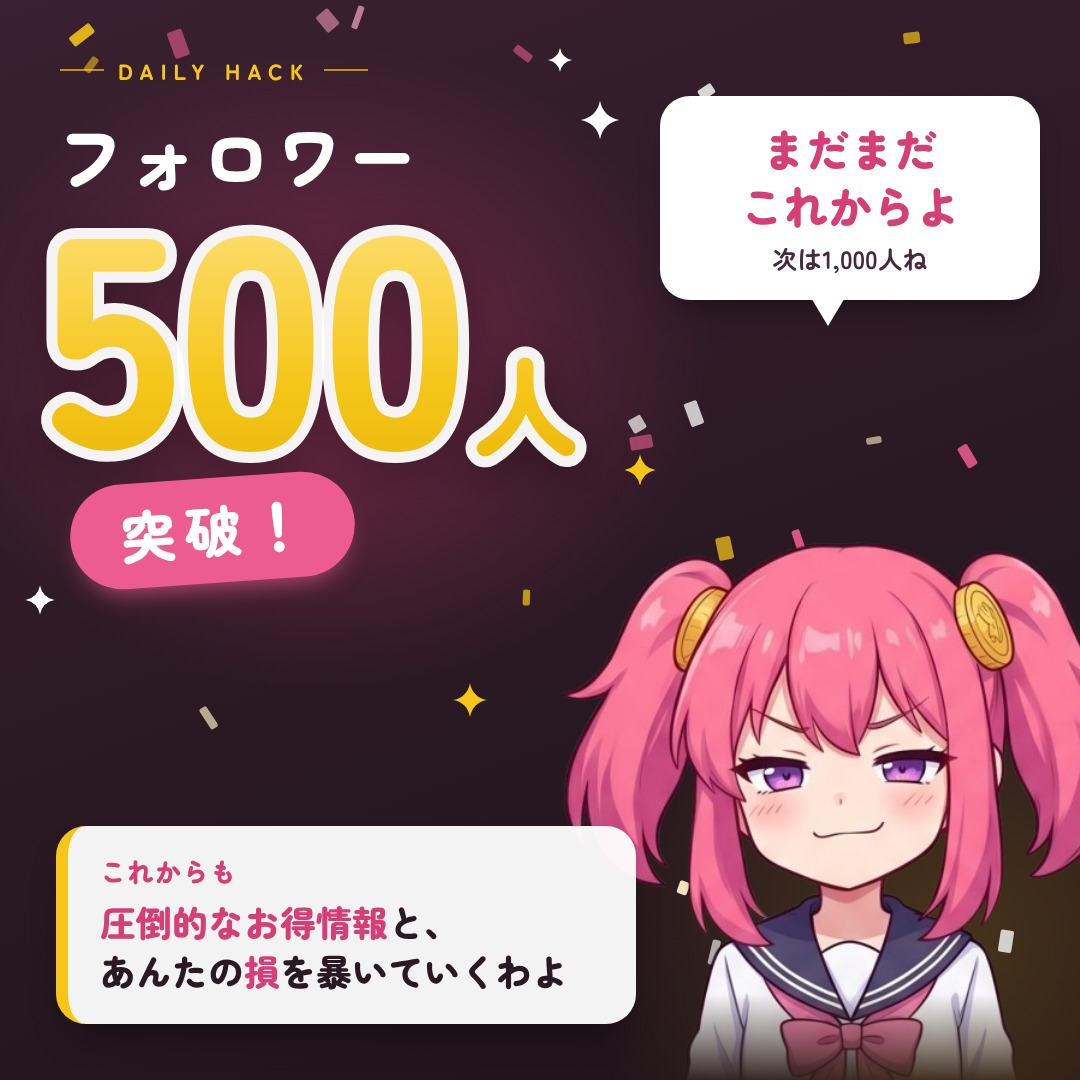
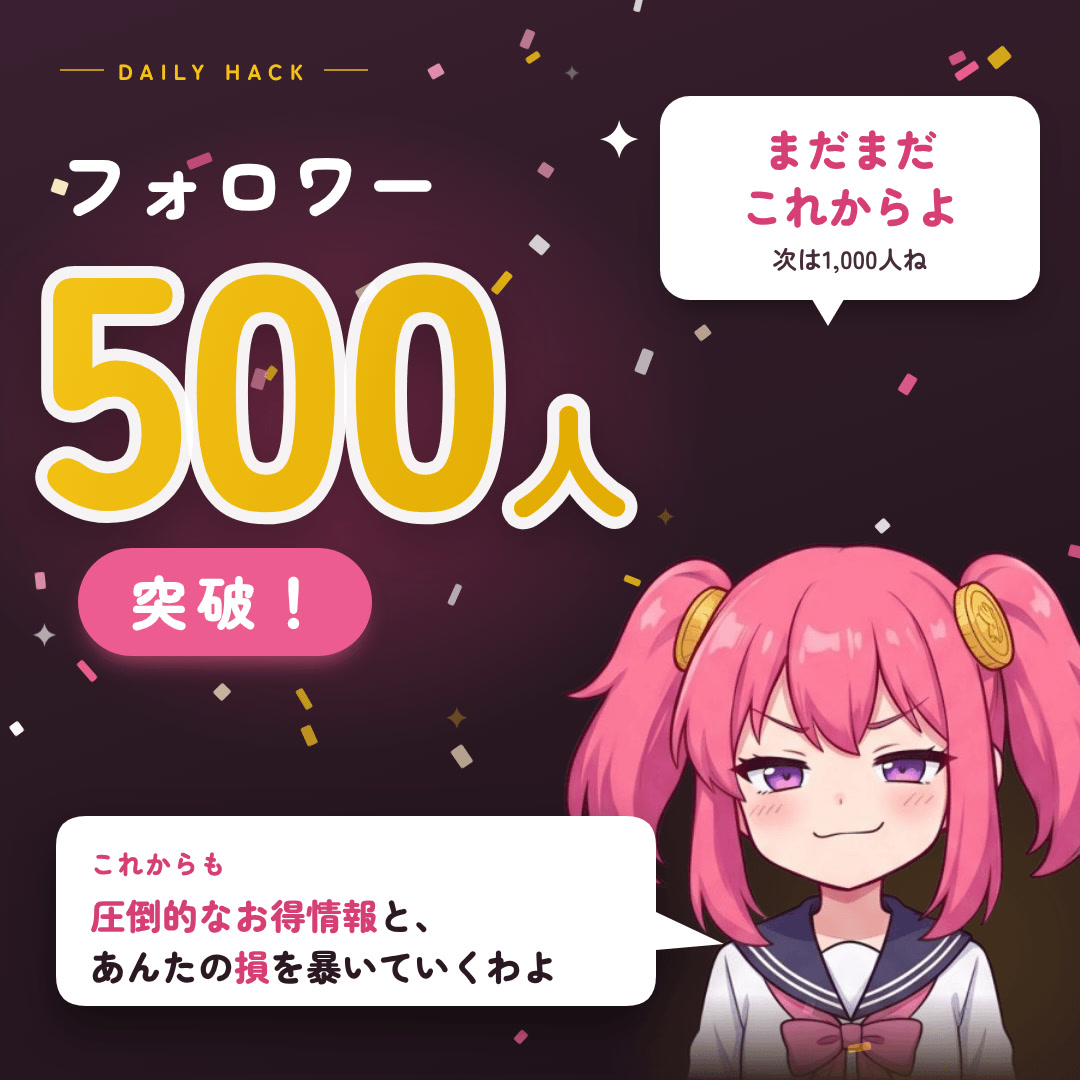
X 下書き: フォロワー500人のお礼を A 版の動く版（GIF）に（コメント6件を反映）／投稿済みの感謝祭の組をページから外した／スキルに記録
Claude-Session: https://claude.ai/code/session_01H2JQqdMCeKNiMVUTrAyX2t

diff --git a/ops/data/x-cards/follower-500/card-anim.html b/ops/data/x-cards/follower-500/card-anim.html
@@ -1,0 +1,78 @@
+<!-- フォロワー 500 人のお礼・A 版の動く版（GIF・2026-10-18 のコメント 6 件を反映）。4 秒で一周。
+     反映: 全体を GIF に（紙吹雪が舞う・セリフがふわっと浮く・500人突破が脈打って光る）／「突破！」はまっすぐ／500人は大きく・少し下へ／
+     「これからも」の枠の左の黄色い線を外す／「これからも」はキャラのセリフなので吹き出しに（しっぽは継ぎ目の出ない同色の一体形）。
+     作り直すとき: node scripts/gen-x-gif.mjs ops/data/x-cards/follower-500/card-anim.html public/images/follower-500/x/1-card.gif 1080 12 4 -->
+<!doctype html><html lang="ja"><head><meta charset="utf-8">
+<style>
+@font-face{font-family:Z;src:url(ZenMaru-500.woff2);font-weight:500}
+@font-face{font-family:Z;src:url(ZenMaru-700.woff2);font-weight:700}
+@font-face{font-family:Z;src:url(ZenMaru-900.woff2);font-weight:900}
+@font-face{font-family:Z;src:url(ZenMaru-latin-900.woff2);font-weight:900;unicode-range:U+0000-00FF}
+:root{--p300:#F09DBB;--p500:#EC5C90;--p600:#D63E76;--y:#F5C518;--ink:#2A1923;--ink2:#46293A}
+*{box-sizing:border-box;margin:0;padding:0}
+html,body{width:1080px;height:1080px}
+body{font-family:Z,sans-serif;color:#fff;overflow:hidden;position:relative;
+ background:radial-gradient(560px 460px at 30% 40%,rgba(214,62,118,.42),transparent 70%),
+  radial-gradient(520px 520px at 88% 88%,rgba(245,197,24,.18),transparent 70%),
+  linear-gradient(160deg,#3A2030 0%,#2A1923 55%,#1E1219 100%)}
+.top{position:absolute;top:54px;left:60px;display:flex;align-items:center;gap:14px;color:var(--y);font-weight:900;font-size:22px;letter-spacing:.32em}
+.top i{display:block;width:44px;height:2px;background:var(--y);opacity:.7}
+.lead{position:absolute;top:128px;left:58px;font-weight:900;font-size:74px;color:#fff;letter-spacing:.04em}
+/* 500人: 大きく・少し下へ。脈打って、金が光る */
+.num{position:absolute;top:200px;left:34px;height:330px;line-height:330px;white-space:nowrap;transform-origin:30% 55%;animation:pulse 2s ease-in-out infinite}
+.num span{position:absolute;left:0;top:0}
+.num .bk{color:transparent;-webkit-text-stroke:24px rgba(255,255,255,.95);filter:drop-shadow(0 14px 22px rgba(0,0,0,.35))}
+.num .fr{background:linear-gradient(110deg,#E0A800 0%,#F5C518 30%,#FFF6C8 45%,#F5C518 60%,#E0A800 100%);background-size:300% 100%;-webkit-background-clip:text;background-clip:text;color:transparent;animation:shine 2s linear infinite}
+.num b{font-size:330px;font-weight:900;letter-spacing:-.02em}
+.num em{font-style:normal;font-size:124px;font-weight:900;margin-left:6px}
+@keyframes pulse{0%,100%{transform:scale(1)}50%{transform:scale(1.05)}}
+@keyframes shine{0%{background-position:100% 0}100%{background-position:-50% 0}}
+/* 突破！: まっすぐ。弾む */
+.badge{position:absolute;top:548px;left:78px;background:var(--p500);color:#fff;font-weight:900;font-size:58px;letter-spacing:.16em;padding:10px 40px 14px 52px;border-radius:999px;box-shadow:0 14px 26px -12px rgba(236,92,144,.8);animation:pop 2s ease-in-out infinite}
+@keyframes pop{0%,100%{transform:translateY(0) scale(1)}15%{transform:translateY(-10px) scale(1.06)}30%{transform:translateY(0) scale(1)}}
+.mascot{position:absolute;right:-60px;bottom:-10px;width:600px;-webkit-mask-image:linear-gradient(to bottom,#000 84%,transparent 99%)}
+/* セリフ（上）: ふわっと浮く */
+.bubble{position:absolute;right:40px;top:96px;width:380px;animation:float 2s ease-in-out infinite}
+.bubble .in{background:#fff;color:var(--ink);border-radius:30px;padding:24px 26px;text-align:center;box-shadow:0 16px 30px -14px rgba(0,0,0,.5)}
+.bubble .a{font-weight:900;font-size:44px;color:var(--p600);line-height:1.3}
+.bubble .b{font-weight:700;font-size:25px;color:var(--ink2);margin-top:6px}
+.bubble:after{content:"";position:absolute;left:150px;bottom:-26px;border:18px solid transparent;border-top:30px solid #fff;border-bottom:0}
+@keyframes float{0%,100%{transform:translateY(0)}50%{transform:translateY(-12px)}}
+/* セリフ（下・これからも）: 吹き出し。左の黄色い線は外した。しっぽは同じ白の一体形（SVG）で継ぎ目を出さない */
+.vow{position:absolute;left:56px;bottom:60px;width:600px;animation:float2 2s ease-in-out infinite}
+.vow svg{position:absolute;left:0;top:0;overflow:visible;filter:drop-shadow(0 20px 22px rgba(0,0,0,.45))}
+.vow .tx{position:relative;padding:28px 34px 30px}
+.vow .h{font-weight:900;font-size:26px;color:var(--p600);letter-spacing:.06em}
+.vow .l{font-weight:900;font-size:36px;line-height:1.4;margin-top:8px;white-space:nowrap;color:var(--ink)}
+.vow .l em{font-style:normal;color:var(--p600)}
+@keyframes float2{0%,100%{transform:translateY(0)}50%{transform:translateY(-8px)}}
+/* 紙吹雪: 上から舞い落ちる（4 秒で一周） */
+.cf{position:absolute;top:-40px;width:10px;height:18px;border-radius:2px;animation:fall 4s linear infinite}
+@keyframes fall{0%{transform:translate(0,0) rotate(0)}100%{transform:translate(var(--dx),1160px) rotate(var(--rot))}}
+.tw{position:absolute;animation:tw 1s ease-in-out infinite}
+@keyframes tw{0%,100%{opacity:1;transform:scale(1)}50%{opacity:.25;transform:scale(.6)}}
+</style></head><body>
+<div id="fx"></div>
+<div class="top"><i></i>DAILY HACK<i></i></div>
+<div class="lead">フォロワー</div>
+<div class="num"><span class="bk"><b>500</b><em>人</em></span><span class="fr"><b>500</b><em>人</em></span></div>
+<div class="badge">突破！</div>
+<img class="mascot" src="expr-05-smug.png">
+<div class="bubble"><div class="in"><div class="a">まだまだ<br>これからよ</div><div class="b">次は1,000人ね</div></div></div>
+<div class="vow">
+ <svg width="600" height="190" viewBox="0 0 600 190"><path d="M30 0 H570 Q600 0 600 30 V96 L668 128 L600 134 V160 Q600 190 570 190 H30 Q0 190 0 160 V30 Q0 0 30 0 Z" fill="#fff"/></svg>
+ <div class="tx"><div class="h">これからも</div><div class="l"><em>圧倒的なお得情報</em>と、<br>あんたの<em>損</em>を暴いていくわよ</div></div>
+</div>
+<script>
+const fx=document.getElementById('fx');let k=7;const r=()=>{k=(k*9301+49297)%233280;return k/233280};
+const cols=['#F5C518','#EC5C90','#F09DBB','#FFF1C8','#FFFFFF'];
+for(let i=0;i<46;i++){const d=document.createElement('div');d.className='cf';
+ d.style.left=(r()*1080)+'px';d.style.background=cols[i%5];d.style.opacity=(.6+r()*.4).toFixed(2);
+ d.style.width=(6+r()*9)+'px';d.style.height=(12+r()*14)+'px';
+ d.style.setProperty('--dx',((r()-.5)*160)+'px');d.style.setProperty('--rot',(360+r()*720|0)+'deg');
+ d.style.animationDelay=(-r()*4).toFixed(2)+'s';fx.appendChild(d);}
+const star=(x,y,z,c,dl)=>{const s=document.createElement('div');s.className='tw';s.style.left=x+'px';s.style.top=y+'px';s.style.animationDelay=dl+'s';
+ s.innerHTML=`<svg width="${24*z}" height="${24*z}" viewBox="-12 -12 24 24"><path d="M0 -12 Q2 -2 12 0 Q2 2 0 12 Q-2 2 -12 0 Q-2 -2 0 -12 Z" fill="${c}"/></svg>`;fx.appendChild(s);};
+[[600,120,1.6,0],[650,500,1.3,-.5],[30,620,1.2,-.25],[1020,640,1.3,-.75],[560,60,1,-.4],[440,700,1.4,-.6]].forEach(([x,y,z,dl],i)=>star(x,y,z,i%2?'#F5C518':'#FFFFFF',dl));
+</script>
+</body></html>

diff --git a/scripts/image-review/page.html b/scripts/image-review/page.html
@@ -401,10 +401,9 @@
     {
       // **未投稿**（2026-10-18 に指示）。フォロワー500人のお礼。素材はキャラ（expr-05-smug.png）と自作の図だけ。300人と構図を変えた（元: ops/data/x-cards/follower-500/card.html）
       key: "follower-500", title: "フォロワー500人のお礼", slug: "follower-500",
-      attach: "1枚（A 版か B 版のどちらか）",
+      attach: "1枚（動く版・GIF）",
       images: [
-        { file: "1-card.jpg", name: "A 版", cap: "500人突破！｜濃いプラムの地・キャラは右（得意げ）・下に「これからも」の宣言" },
-        { file: "1-card-b.jpg", name: "B 版", cap: "金のメダルに500人｜クリームの地・キャラは左下（腕組み）・右下に「これからも」の宣言" }
+        { file: "1-card.gif", name: "A 版（動く版）", cap: "500人突破！｜紙吹雪が舞う・セリフが浮く・500人が脈打って光る（10/18 のコメント6件を反映）" }
       ]
     },
     {
@@ -416,17 +415,6 @@
         { file: "2-rules.jpg", name: "2枚目", cap: "5つの経済圏でいちばん効く上乗せ" },
         { file: "3-real.jpg",  name: "3枚目", cap: "月2万pt超の4人は全員、経済圏を組み合わせていた" },
         { file: "4-how.jpg",   name: "4枚目", cap: "経済圏を選ぶ順番" }
-      ]
-    },
-    {
-      // **未投稿**（2026-10-17 に指示）。写真は使わず、ロゴは記事の logos/（商標・識別目的）だけ。楽天マラソンは 10/17 9:59 で終了したので感謝祭と 10/20 に絞った
-      key: "prime", title: "プライム感謝祭 vs 楽天（秋）", slug: "prime-sale-vs-rakuten-autumn-2026",
-      attach: "[1/2]（4枚）",
-      images: [
-        { file: "1-deadline.jpg",  name: "1枚目", cap: "Amazonプライム感謝祭 vs 楽天お買い物マラソン｜カード全体に公式キャンペーン画像を薄く（10/17 23時半のコメント→全体に決定）" },
-        { file: "2-rules.jpg",     name: "2枚目", cap: "同じ商品7つ｜Amazon・楽天7.3倍・楽天1倍の値段−ポイント" },
-        { file: "3-which.jpg",     name: "3枚目", cap: "倍率で勝ち負けが入れ替わる（ドライヤー）" },
-        { file: "4-next.jpg",      name: "4枚目", cap: "Amazonはエントリー、楽天市場は10月20日" }
       ]
     },
     {

diff --git a/.claude/skills/x-post-images/SKILL.md b/.claude/skills/x-post-images/SKILL.md
@@ -333,6 +333,7 @@ cat public/images/<slug>/photos/_manifest.json
 | 2026-10-17 | **Amazonプライム感謝祭と楽天市場のお買い物マラソンを比較したんでしょ？ちゃんとそれをわかりやすく伝えてよ／文脈の説明をサボらないで／タイトルのセンスがないよ**（1 枚目の見出し） | **比較の 1 枚目は、見出しで「何と何を比べたか」を正式名で言う。**「ポイントの付き方が正反対」だけでは、何のイベントの話か分からない。見出しを「秋の2大ポイントセールを比べたら／Amazonプライム感謝祭 vs 楽天お買い物マラソン」にし、両方をブランド色の下線で並べ、主張（条件が正反対）は副題に下げた。**直したのは見出しだけ**（ルール 18） |
 | 2026-10-17 | **このタブのところに薄くプライム感謝祭のキャンペーン画像を透過させて写して／楽天のお買い物マラソンも同じようにやってね／実施してスキル化してね** | **イベント同士を比べるカードは、ロゴの札（タブ）の地に、そのイベントの公式キャンペーン画像を薄く敷く**（既定にする）。取り方：公式ページの `og:image`・大きい `img`・CSS の背景画像を **URL から取る**（x312・x313。**画面は撮らない**）。Amazon は aboutamazon の告知画像、楽天は「お買い物マラソン」の看板画像（`r.r10s.jp/evt/.../kanban/`）。**敷くのはカード全体の上部**（いったん札の中だけに入れたが、利用者が「最初のコンポーネント全体に透過させた方が確かにいい」と決めた・2026-10-17）。カードの上 300px に `opacity:.3` 前後、下へ向けて `mask-image` で消す。白地の画像（楽天の看板）は `mix-blend-mode:multiply` で白を消して赤い地に透かす。置き場は `public/images/<slug>/x/src/` と `_manifest.json`（取得元 URL・取得日） |
 | 2026-10-17 | **透かしている画像の白い背景が目立ちすぎる。文字とイラスト以外を透明にするか、もっと薄く**（楽天の看板） | 白地の素材をそのまま敷くと、色のカードの上に**白い帯**が出る。**ファイルは加工せず、CSS の `mix-blend-mode: multiply` で白だけを消す**（白×地色＝地色）。文字とイラストだけが地色に沈んで残る。白地の公式素材を色の地に敷くときは既定でこれを付ける |
+| 2026-10-18 | **フォロワー500人のお礼（A 版）に 6 件：全体を GIF に・紙吹雪を動かす・セリフと「500人突破」にエフェクト／「突破」の札は斜めにしない／500人の文字を大きく・少し下へ／枠の左の黄色い線は不要／セリフなのに吹き出しになっていない（しっぽは継ぎ目を見せない）** | 節目の画像は**最初から動く版（GIF）で出す**（`scripts/gen-x-gif.mjs`・4 秒・12fps で 3.7MB）。紙吹雪は CSS で上から舞わせ、主役の数字は脈打たせて光を流す。**飾りで要素を傾けない**（読みにくくなるだけ）。**枠の片側だけの色線は付けない**。**キャラの言葉は必ず吹き出しにする**。しっぽは本体と**同じ色の 1 本の SVG パス**で描き、影は外側に 1 つだけ（三角を重ねると継ぎ目が出る）。元: `ops/data/x-cards/follower-500/card-anim.html` |
 <!-- 追記はこの表の下に。日付・指摘・反映 の 3 列を必ず埋める -->
 
 ## 7. 関連
